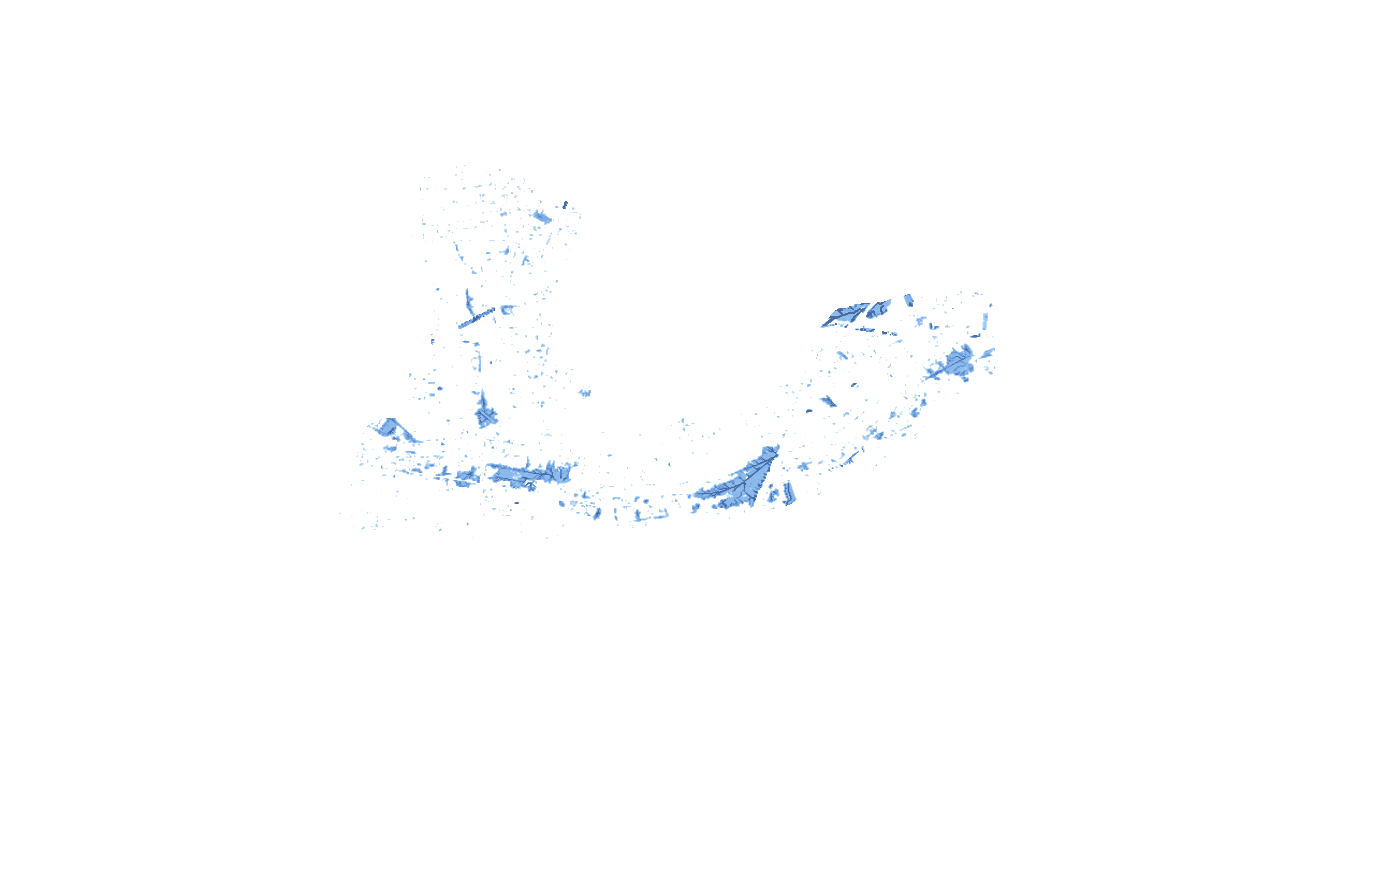
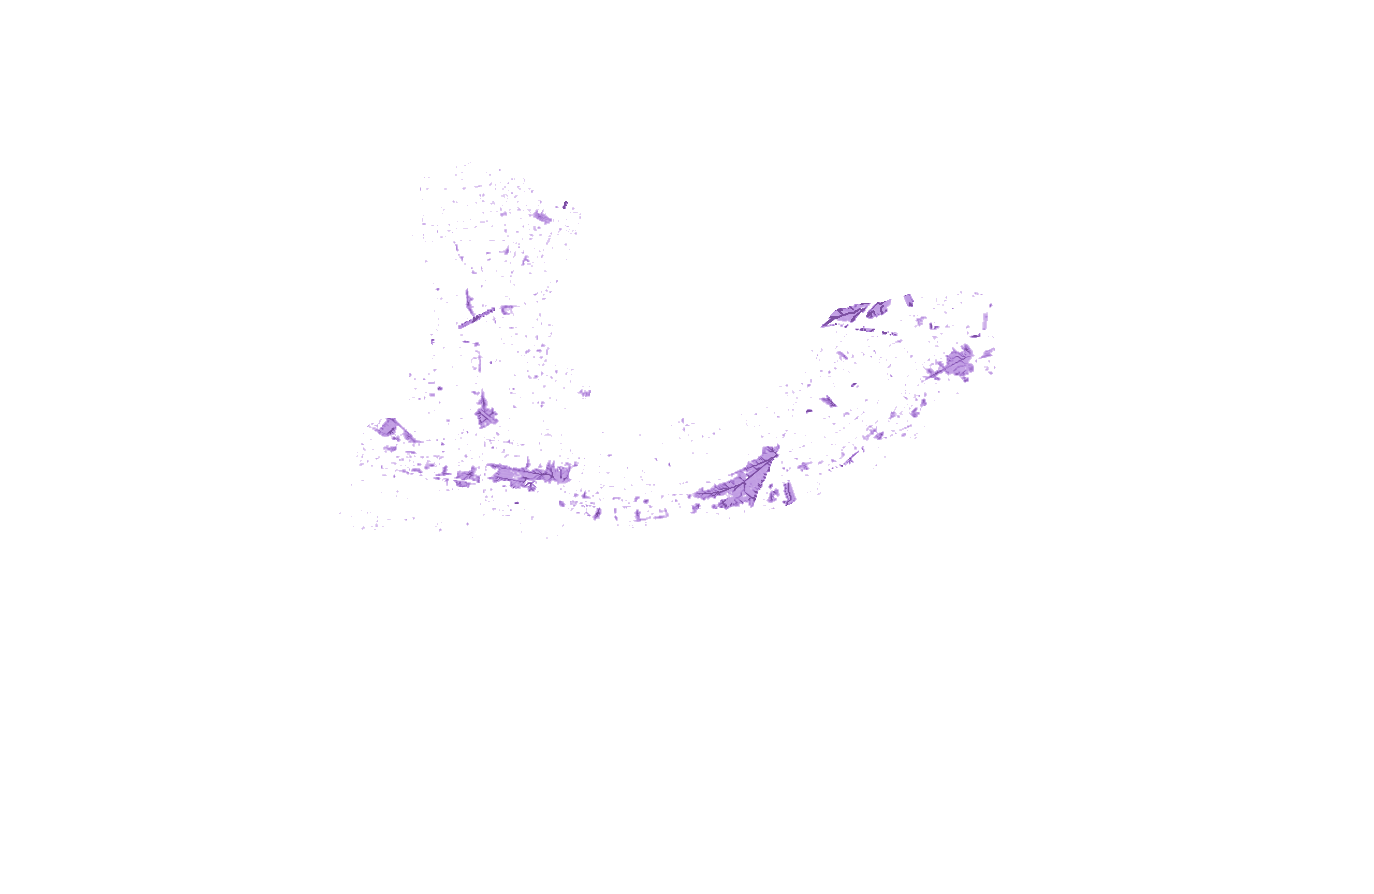
自前モデルの湛水表示を紫系にし、公式図由来の層（青灰）と区別する
- export_web_ponding_overlay.py の色の段階を青系から紫系に変更し、オーバーレイ画像を再生成
- 画像を作り直してもブラウザに古いキャッシュが表示されないよう、APIが返す画像URLに更新時刻を付ける

diff --git a/frontend/src/components/MapPanel.jsx b/frontend/src/components/MapPanel.jsx
@@ -38,7 +38,7 @@ const TARGET_BOUNDS = [
 
 // hazard_pdf_derived.geojsonのproperties.colorは公式凡例色そのまま（記録として維持）。
 // 表示用の配色はここでdepth_class→色として持つ。OSM基図の薄茶〜橙と衝突して見えづらかったため
-// 青灰系に変更し、ponding-layer（湛水推定、高彩度の青）とは彩度で役割を分けている
+// 青灰系に変更した。ponding-layer（自前モデルの湛水推定）は紫系にして、公式図由来の層と色相で区別する
 // （2026-09-15 naisui-f4提案、docs未反映・要目視確認）。
 const HAZARD_COLOR_BY_CLASS = {
   "0.1m以上0.5m未満": "#bcd2e0",

diff --git a/tools/export_web_ponding_overlay.py b/tools/export_web_ponding_overlay.py
@@ -43,9 +43,10 @@ def target_area_geometry_4326():
     buffered_m = union_m.buffer(TARGET_BUFFER_M)
     return gpd.GeoSeries([buffered_m], crs="EPSG:6677").to_crs("EPSG:4326").iloc[0]
 
-# Sequential blue ramp for the model's screening depth. Deliberately different
-# from hazard_pdf_colour_classes.json's yellow-orange-red so this overlay is
-# never mistaken for the official hazard-map extent.
+# Sequential purple ramp for the model's screening depth. Deliberately different
+# from the official hazard layer (PDF-derived, drawn blue-grey in MapPanel.jsx)
+# so this overlay is never mistaken for the official hazard-map extent
+# (2026-09-25: changed from blue to purple for that reason).
 #
 # NO_PONDING_THRESHOLD_M is intentionally NOT aligned to `depth_threshold_m`
 # (0.2m) used in tools/export_risk_lookup.py's area_over_threshold_ratio.
@@ -60,11 +61,11 @@ def target_area_geometry_4326():
 # 第3章) so the gradient stays legible across the depths that actually occur.
 NO_PONDING_THRESHOLD_M = 0.01
 RAMP_STOPS = [
-    (0.01, (207, 232, 252)),  # just above no-ponding
-    (0.05, (139, 191, 240)),
-    (0.10, (79, 146, 222)),
-    (0.20, (34, 98, 186)),
-    (0.30, (12, 55, 130)),  # cap: anything deeper (incl. DEM artifacts) clamps here
+    (0.01, (226, 206, 242)),  # just above no-ponding
+    (0.05, (196, 160, 230)),
+    (0.10, (160, 107, 212)),
+    (0.20, (120, 58, 180)),
+    (0.30, (80, 20, 130)),  # cap: anything deeper (incl. DEM artifacts) clamps here
 ]
 OVERLAY_ALPHA = 190
 

diff --git a/backend/app/main.py b/backend/app/main.py
@@ -43,6 +43,10 @@ def get_towns() -> list[dict]:
     return [{"name": name, "slug": slug} for name, slug in data.TOWN_SLUGS.items()]
 
 
+def _mtime(path) -> int:
+    return int(path.stat().st_mtime) if path.exists() else 0
+
+
 @app.get("/api/scenario/{scenario_id}")
 def get_scenario(scenario_id: str) -> dict:
     if scenario_id not in store.risk_lookups:
@@ -66,7 +70,8 @@ def get_scenario(scenario_id: str) -> dict:
         "map_layers": {
             "town_boundaries": "/static/web_map/town_boundaries.geojson",
             "hazard_pdf_derived": "/static/web_map/hazard_pdf_derived.geojson",
-            "ponding_overlay_png": f"/static/web_map/ponding_depth_{scenario_id}.png",
+            # 画像を作り直したときにブラウザの古いキャッシュが表示されないよう、更新時刻をURLに付ける。
+            "ponding_overlay_png": f"/static/web_map/ponding_depth_{scenario_id}.png?v={_mtime(data.WEB_MAP / f'ponding_depth_{scenario_id}.png')}",
             "ponding_overlay_bounds": f"/static/web_map/ponding_depth_{scenario_id}.bounds.json",
             "sandbag_locations": "/static/shelter/sandbag_locations_nakanobu_futaba.geojson",
             "shelter_locations": "/static/shelter/shelter_locations_nakanobu_futaba.geojson",
